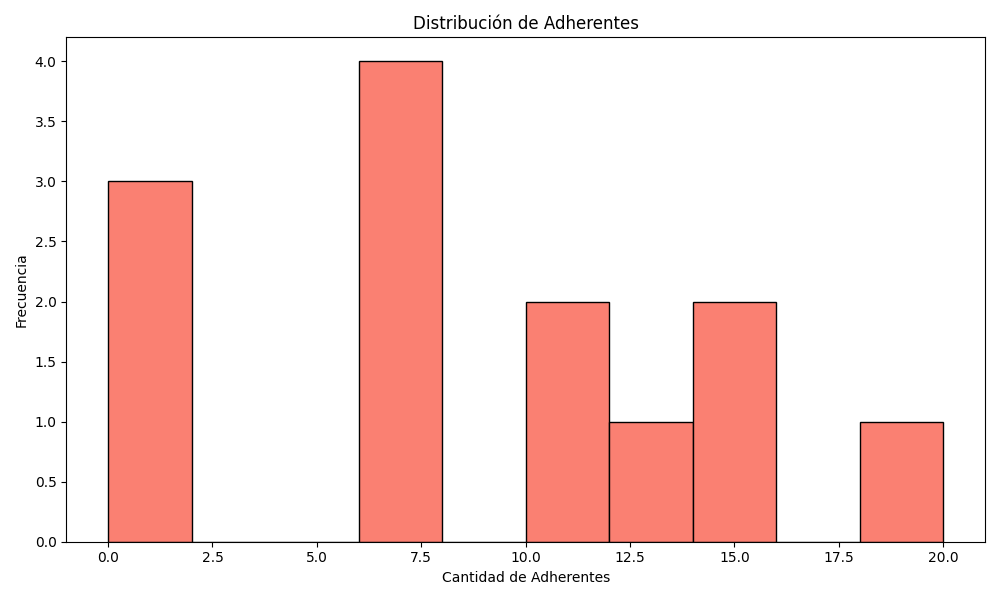
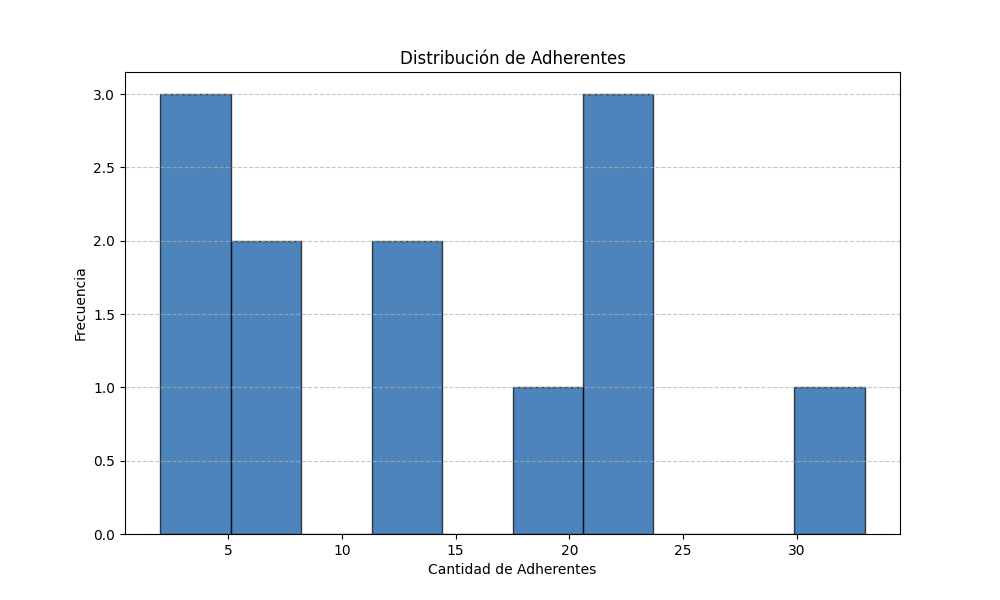
arreglo direccion base en server (se iniciaba gestor base con ruta en data, no se mostraba nada) y pequeño cambio en html analitica (estaban los botones juntos de reportes)

diff --git a/TrabajoPractico_3/proyecto_1/static/reporte_departamento.html b/TrabajoPractico_3/proyecto_1/static/reporte_departamento.html
@@ -41,7 +41,7 @@
             <h1>Reporte de Reclamos - Maestranza</h1>
             <h2>Estadísticas del Departamento</h2>
             <ul>
-        <li>Mediana de Cantidad adherentes: 10.5</li><li>Mediana de Tiempo estimado: 2.0</li><li>Mediana de Resuelto en: 11.0</li></ul>
+        <li>Mediana de Cantidad adherentes: 12.0</li><li>Mediana de Tiempo estimado: 0.0</li><li>Mediana de Resuelto en: 14</li></ul>
             <h2>Listado de Reclamos</h2>
             <table>
                 <thead>
@@ -56,99 +56,99 @@
                 <tbody>
         
                     <tr>
-                        <td>3</td>
+                        <td>4</td>
                         <td>Falta iluminación en el pasillo del módulo 2</td>
                         <td>resuelto</td>
-                        <td>2025-05-11 14:51:25</td>
-                        <td>9</td>
-                    </tr>
-                
-                    <tr>
-                        <td>4</td>
-                        <td>El baño al lado del departamento de electrónica está fuera de servicio</td>
-                        <td>resuelto</td>
-                        <td>2025-04-18 14:51:25</td>
-                        <td>2</td>
+                        <td>2025-05-29 01:24:01</td>
+                        <td>8</td>
                     </tr>
                 
                     <tr>
                         <td>5</td>
-                        <td>Fuga de agua en el baño del decanato</td>
-                        <td>resuelto</td>
-                        <td>2025-05-06 14:51:25</td>
-                        <td>11</td>
+                        <td>El baño al lado del departamento de electrónica está fuera de servicio</td>
+                        <td>pendiente</td>
+                        <td>2025-06-09 01:24:01</td>
+                        <td>22</td>
                     </tr>
                 
                     <tr>
-                        <td>35</td>
+                        <td>6</td>
+                        <td>Fuga de agua en el baño del decanato</td>
+                        <td>pendiente</td>
+                        <td>2025-05-20 01:24:01</td>
+                        <td>18</td>
+                    </tr>
+                
+                    <tr>
+                        <td>36</td>
                         <td>No hay papel higiénico en los baños del segundo piso</td>
                         <td>resuelto</td>
-                        <td>2025-06-05 14:51:25</td>
-                        <td>3</td>
+                        <td>2025-05-13 01:24:01</td>
+                        <td>33</td>
                     </tr>
                 
                     <tr>
-                        <td>38</td>
+                        <td>39</td>
                         <td>No atienden los teléfonos del departamento de ingeniería</td>
                         <td>resuelto</td>
-                        <td>2025-05-26 14:51:25</td>
-                        <td>29</td>
+                        <td>2025-04-20 01:24:01</td>
+                        <td>12</td>
                     </tr>
                 
                     <tr>
-                        <td>41</td>
+                        <td>42</td>
                         <td>No hay jabón en los baños del módulo 3</td>
-                        <td>resuelto</td>
-                        <td>2025-06-03 14:51:25</td>
-                        <td>31</td>
-                    </tr>
-                
-                    <tr>
-                        <td>47</td>
-                        <td>Falta iluminación en el pasillo del módulo 2</td>
                         <td>pendiente</td>
-                        <td>2025-04-20 14:51:25</td>
-                        <td>34</td>
+                        <td>2025-05-29 01:24:01</td>
+                        <td>6</td>
                     </tr>
                 
                     <tr>
                         <td>48</td>
-                        <td>El baño al lado del departamento de electrónica está fuera de servicio</td>
-                        <td>resuelto</td>
-                        <td>2025-05-15 14:51:25</td>
-                        <td>10</td>
+                        <td>Falta iluminación en el pasillo del módulo 2</td>
+                        <td>pendiente</td>
+                        <td>2025-06-09 01:24:01</td>
+                        <td>12</td>
                     </tr>
                 
                     <tr>
                         <td>49</td>
-                        <td>Fuga de agua en el baño del decanato</td>
-                        <td>pendiente</td>
-                        <td>2025-04-26 14:51:25</td>
+                        <td>El baño al lado del departamento de electrónica está fuera de servicio</td>
+                        <td>resuelto</td>
+                        <td>2025-06-14 01:24:01</td>
                         <td>2</td>
                     </tr>
                 
                     <tr>
-                        <td>79</td>
-                        <td>No hay papel higiénico en los baños del segundo piso</td>
+                        <td>50</td>
+                        <td>Fuga de agua en el baño del decanato</td>
                         <td>pendiente</td>
-                        <td>2025-06-13 14:51:26</td>
-                        <td>16</td>
+                        <td>2025-06-02 01:24:01</td>
+                        <td>21</td>
                     </tr>
                 
                     <tr>
-                        <td>82</td>
+                        <td>80</td>
+                        <td>No hay papel higiénico en los baños del segundo piso</td>
+                        <td>resuelto</td>
+                        <td>2025-05-30 01:24:02</td>
+                        <td>23</td>
+                    </tr>
+                
+                    <tr>
+                        <td>83</td>
                         <td>No atienden los teléfonos del departamento de ingeniería</td>
-                        <td>pendiente</td>
-                        <td>2025-06-06 14:51:26</td>
+                        <td>resuelto</td>
+                        <td>2025-04-27 01:24:02</td>
                         <td>5</td>
                     </tr>
                 
                     <tr>
-                        <td>85</td>
+                        <td>86</td>
                         <td>No hay jabón en los baños del módulo 3</td>
                         <td>resuelto</td>
-                        <td>2025-04-29 14:51:26</td>
-                        <td>12</td>
+                        <td>2025-05-14 01:24:02</td>
+                        <td>2</td>
                     </tr>
                 
                 </tbody>

diff --git a/TrabajoPractico_3/proyecto_1/templates/analitica_reclamos.html b/TrabajoPractico_3/proyecto_1/templates/analitica_reclamos.html
@@ -95,6 +95,7 @@
 
     <h3 class="">Descargar Reportes</h3>
     <center><a href="{{ url_for('descargar_reporte', formato='pdf') }}" class="enlace-boton">Descargar PDF</a></center>
+    <br>
     <center><a href="{{ url_for('descargar_reporte', formato='html') }}" class="enlace-boton">Descargar HTML</a></center>
 
     <div class="volver-contenedor" style="text-align: center; margin: 30px 0;">

diff --git a/TrabajoPractico_3/proyecto_1/server.py b/TrabajoPractico_3/proyecto_1/server.py
@@ -17,7 +17,7 @@ import datetime as date
 from modules.monticulos import MonticuloMediana
 import pickle
 
-base_datos = GestorBaseDatos("sqlite:///data/base_datos.db")
+base_datos = GestorBaseDatos("sqlite:///docs/base_datos.db")
 base_datos.conectar()
 
 engine, Session = crear_engine()
@@ -453,6 +453,7 @@ def ayuda():
     return render_template('ayuda.html', current_user=current_user)
 
 @login_manager.user_loader
+
 def load_user(user_id):
     usuario = gestor_usuarios.buscar_usuario(filtro="id",valor=user_id)
     if usuario:
